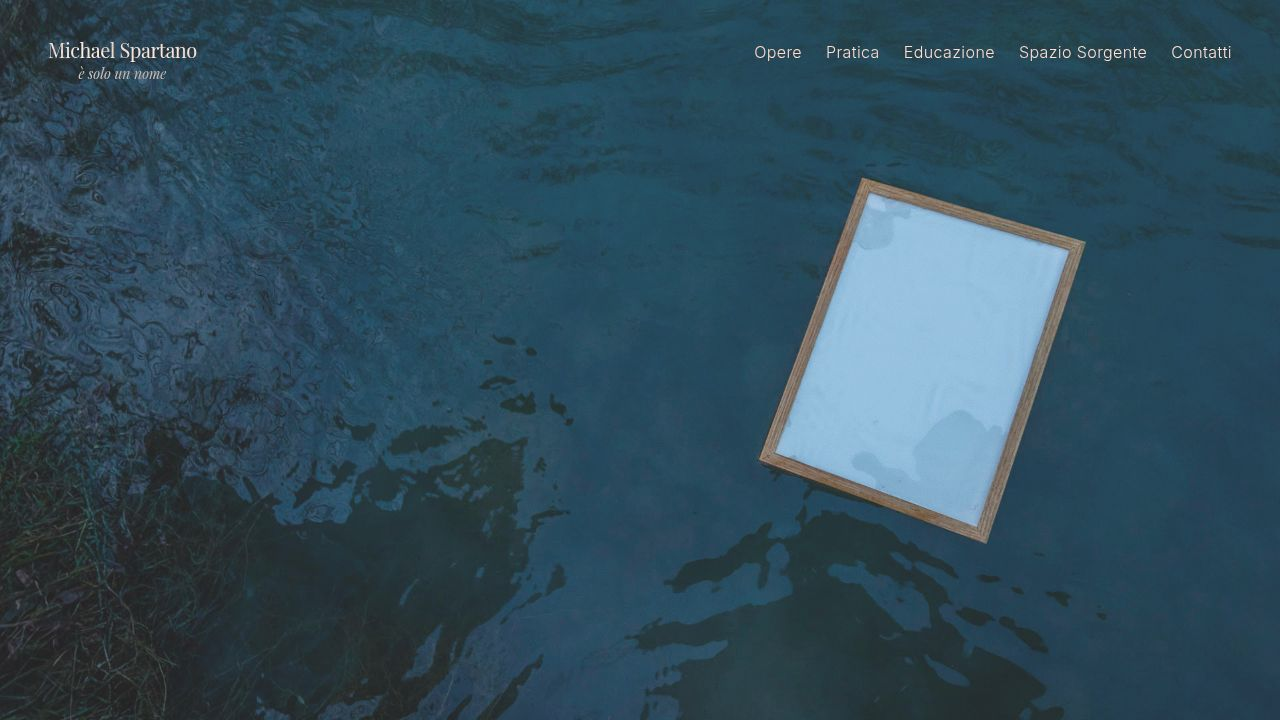
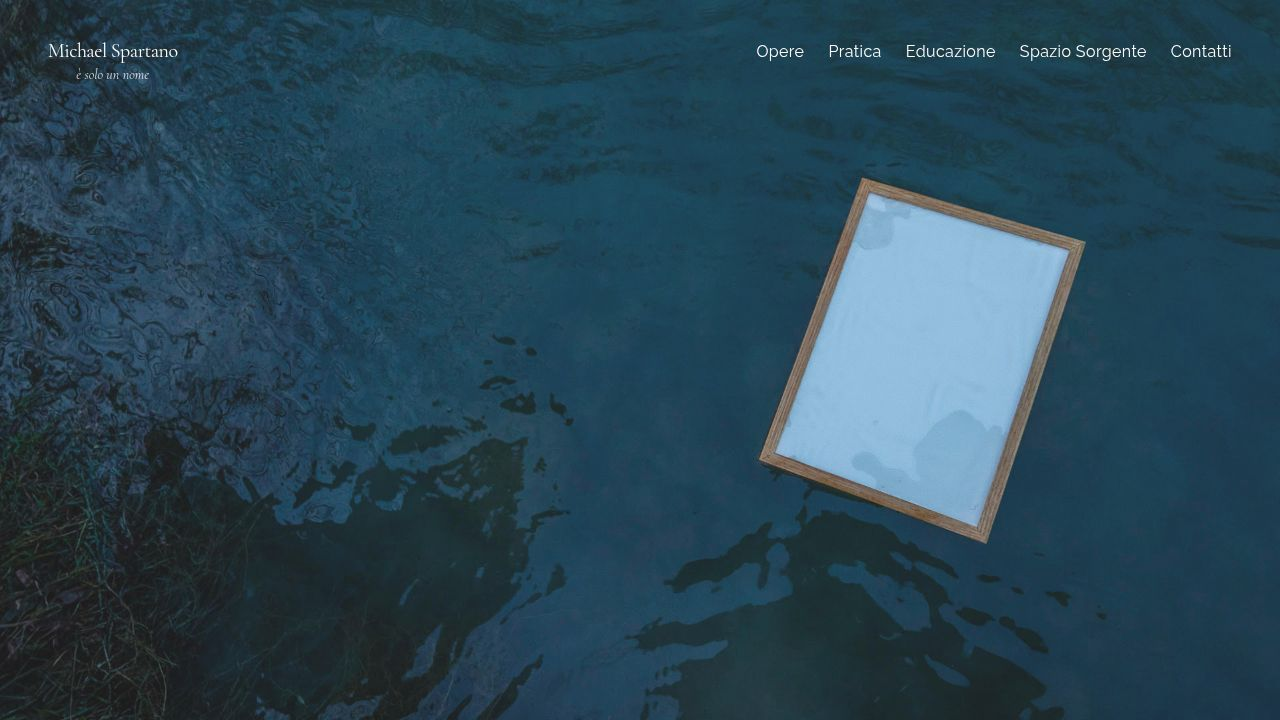
Adjust text sizes and fonts on the music page
Updated font families and text sizes within the Musica component, specifically targeting heading and paragraph elements, and adjusted font sizes in a div element for content.

Replit-Commit-Author: Agent
Replit-Commit-Session-Id: 829b82cf-d7dc-4d1d-836f-aa98d7b167b9
Replit-Commit-Checkpoint-Type: full_checkpoint
Replit-Commit-Event-Id: 1a95b019-85af-4d85-a4f9-29fd96baa7aa
Replit-Commit-Screenshot-Url: https://storage.googleapis.com/screenshot-production-us-central1/dadd5ac2-ca2b-4b58-903d-3f7e6e283ca8/829b82cf-d7dc-4d1d-836f-aa98d7b167b9/wpO1ZS7
Replit-Helium-Checkpoint-Created: true

Changed region(s): [[0.5938, 0.0611, 0.9688, 0.0917], [0.0312, 0.0611, 0.1562, 0.1222]]

diff --git a/client/src/pages/pratica/Musica.tsx b/client/src/pages/pratica/Musica.tsx
@@ -26,10 +26,10 @@ export default function Musica() {
           transition={{ duration: 1, ease: "easeOut", delay: 0.1 }}
           className="mb-16 md:mb-24"
         >
-          <h1 className="text-2xl md:text-3xl font-bold font-sans text-foreground/90 mb-1">
+          <h1 className="text-xl md:text-2xl font-bold font-serif text-foreground/90 mb-1">
             Bagno di suoni e parole
           </h1>
-          <p className="text-lg md:text-xl font-sans text-foreground/80 italic">
+          <p className="text-base md:text-lg font-serif text-foreground/80 italic">
             La voce della natura
           </p>
         </motion.div>
@@ -44,7 +44,7 @@ export default function Musica() {
             transition={{ duration: 1, ease: "easeOut", delay: 0.2 }}
             className="flex-1 w-full text-left"
           >
-            <div className="space-y-8 font-sans text-base md:text-lg text-foreground/80 leading-relaxed">
+            <div className="space-y-8 font-sans text-sm md:text-base text-foreground/80 leading-relaxed">
               <p>
                 Un incontro di vibrazioni,<br />
                 silenzi<br />
